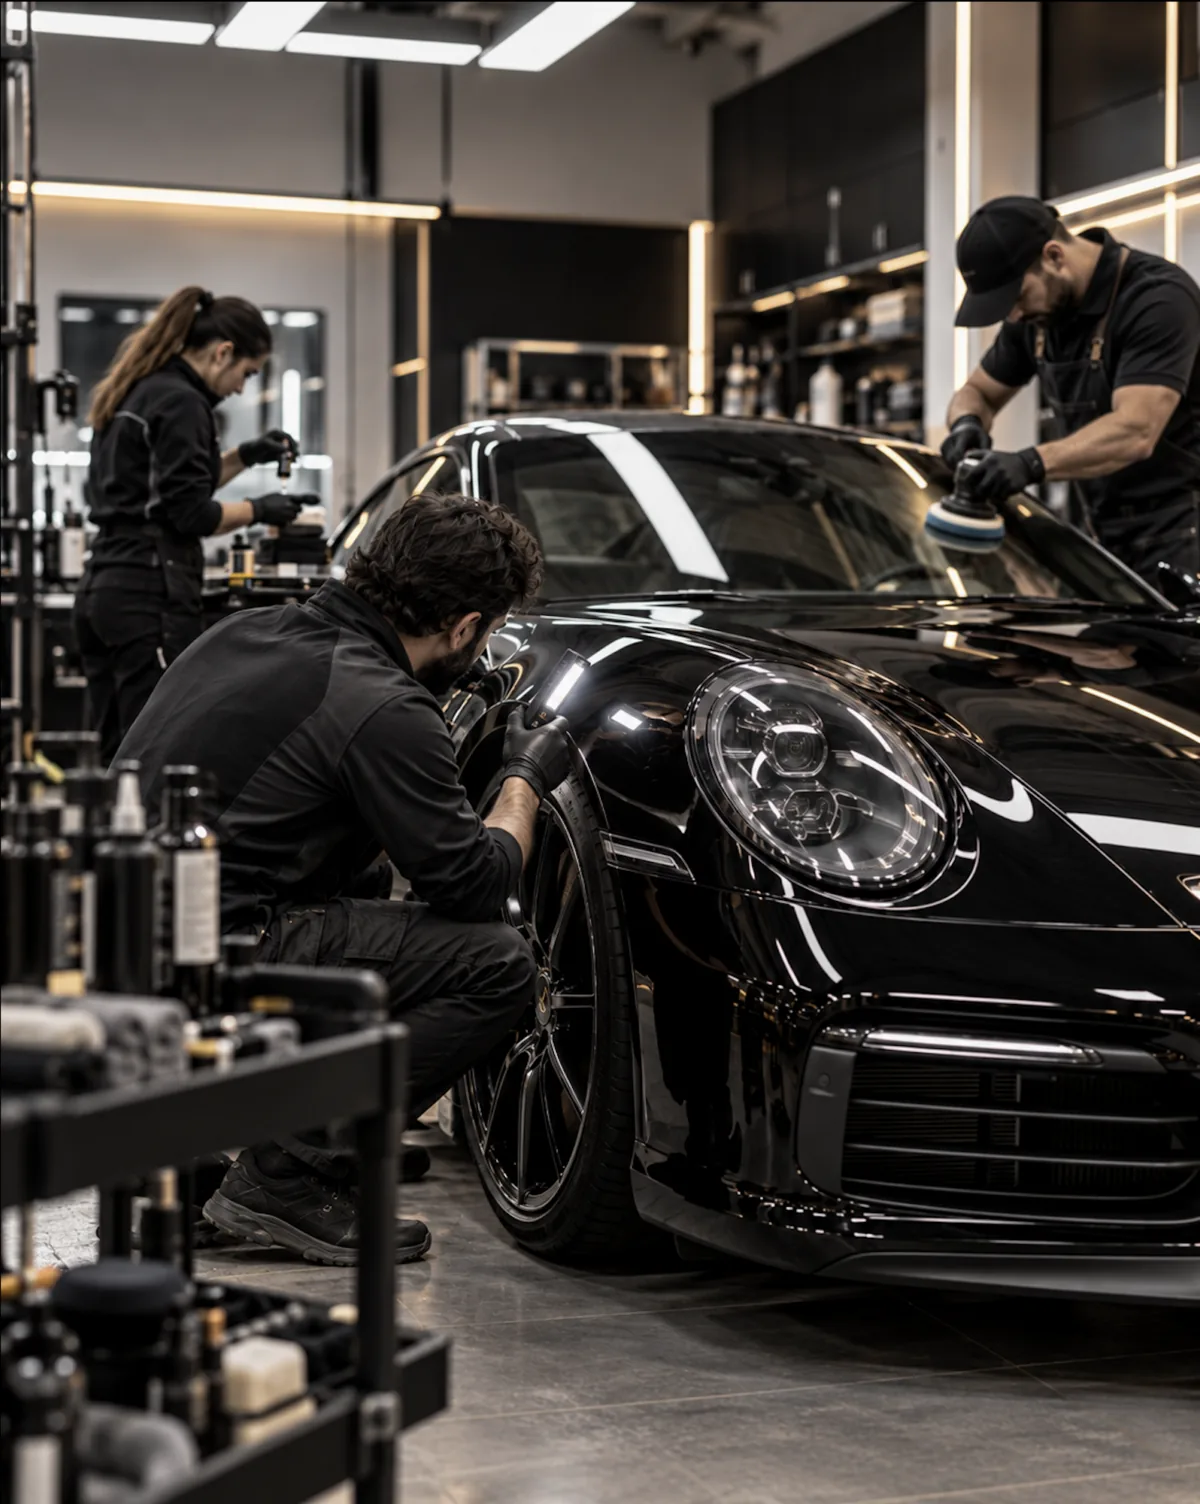
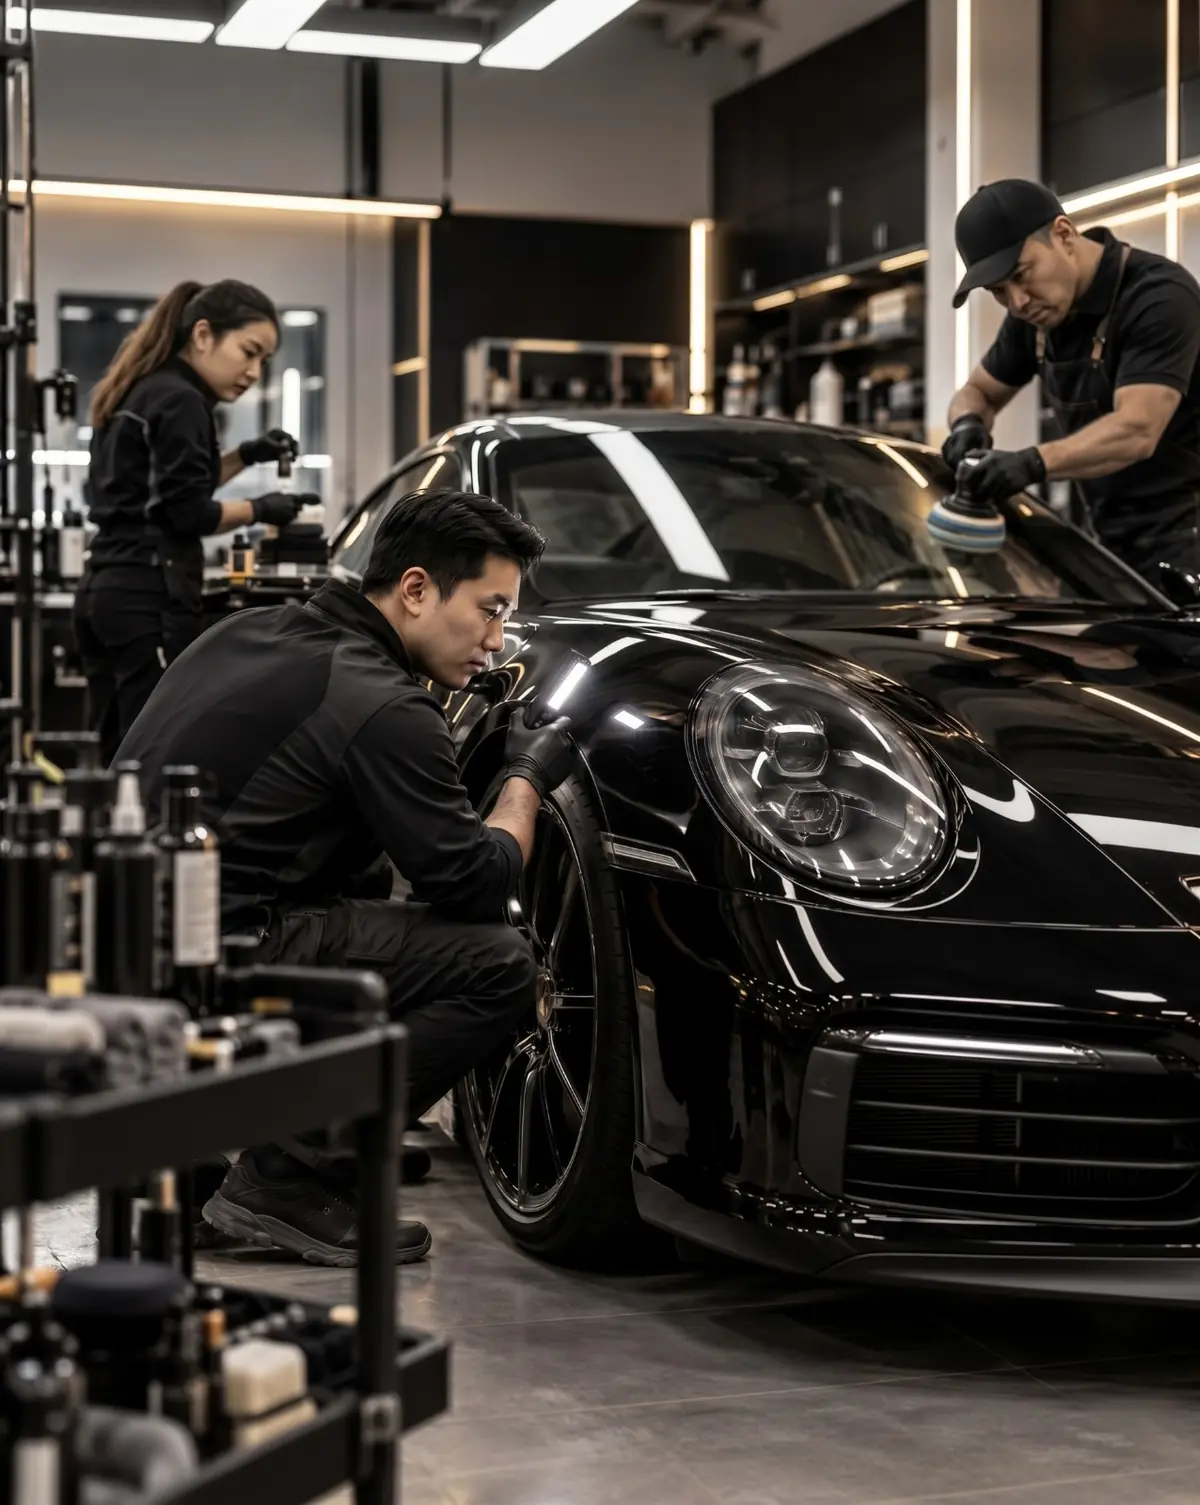
Equipe : nouvelle photo

diff --git a/index.html b/index.html
@@ -273,11 +273,11 @@
       </p>
 
       <figure class="story__plate" data-reveal>
-        <img src="/cararmour.sg/assets/img/car-detailing-team-singapore-900.webp?v=ab275f119f"
-             srcset="/cararmour.sg/assets/img/car-detailing-team-singapore-460.webp?v=360cbdebcb 460w, /cararmour.sg/assets/img/car-detailing-team-singapore-620.webp?v=289fccd50b 620w, /cararmour.sg/assets/img/car-detailing-team-singapore-900.webp?v=ab275f119f 900w, /cararmour.sg/assets/img/car-detailing-team-singapore-1200.webp?v=8e4c618c92 1200w"
+        <img src="/cararmour.sg/assets/img/car-detailing-team-singapore-900.webp?v=84a754cf2f"
+             srcset="/cararmour.sg/assets/img/car-detailing-team-singapore-460.webp?v=d889193694 460w, /cararmour.sg/assets/img/car-detailing-team-singapore-620.webp?v=475fa1c6a4 620w, /cararmour.sg/assets/img/car-detailing-team-singapore-900.webp?v=84a754cf2f 900w, /cararmour.sg/assets/img/car-detailing-team-singapore-1200.webp?v=5fb983e764 1200w"
              sizes="(min-width:920px) 44vw, 100vw"
              alt="Car Armour detailing team machine polishing a black Porsche 911 before ceramic coating in Singapore"
-             width="1514" height="1898" loading="lazy" decoding="async">
+             width="1276" height="1600" loading="lazy" decoding="async">
       </figure>
 
       <h3 data-reveal>Rare skills at your service</h3>
